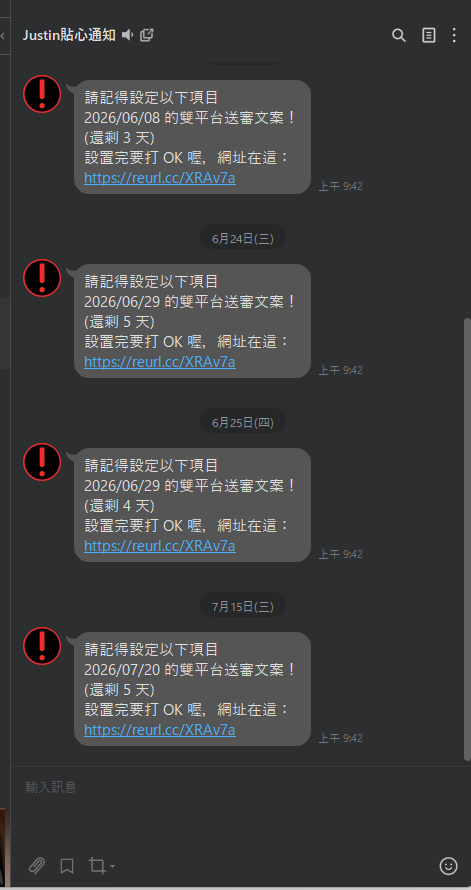
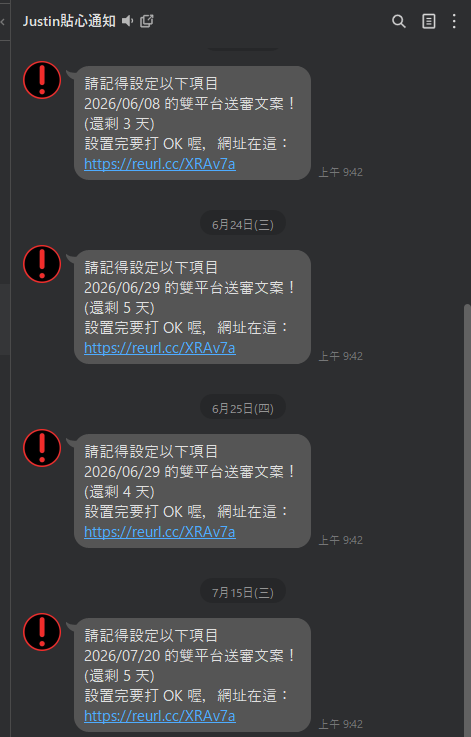
修正巢狀數字清單CSS陷阱、補充後臺設定營運活動公告的活動圖檢查要點、雙平台文案寫法標題調整，並優化其他參考資源版面

diff --git a/docs/stylesheets/extra.css b/docs/stylesheets/extra.css
@@ -53,7 +53,8 @@
 }
 
 /* 數字清單改為藍底白字圓框 */
-.md-typeset ol {
+.md-typeset ol,
+.md-typeset ol ol {
   list-style: none;
   counter-reset: step;
   padding-left: 0;

diff --git a/docs/營運活動基本設定.md b/docs/營運活動基本設定.md
@@ -15,7 +15,7 @@
 
 部分活動需要提前先設定官網文章給數學設定（舉例：魚王積分榜），這不算特例，是既定事項之一
 
-⚠ **特例狀態**：圖片未完成、臨時插件，可先設定文字版
+<mark>⚠ **特例狀態：圖片未完成、臨時插件，可先設定文字版**</mark>
 
 <img src="../images/營運活動設定/01.png" alt="營運文件總覽排期示意圖" style="max-width:1000px;width:100%;">
 
@@ -28,7 +28,7 @@
 
 <img src="../images/營運活動設定/02.png" alt="廣告素材類型示意圖" style="max-width:1000px;width:100%;">
 
-⚠ 後台「官網設定－文章管理－AI自動化用」這個區塊先無視，這是之後操作到自動發布時才會用到的區塊，見[自動發布教學](/sop-docs/營運_自動發布指南.html)
+<mark>⚠ **後台「官網設定－文章管理－AI自動化用」這個區塊先無視，這是之後操作到自動發布時才會用到的區塊，見[自動發布教學](/sop-docs/營運_自動發布指南.html)**</mark>
 
 ## 後台設定步驟
 
@@ -52,19 +52,44 @@
 
     <img src="../images/營運活動設定/07.png" alt="營運文件表格區塊示意圖" style="max-width:1000px;width:100%;">
 
-3. 設定過程中，回到[包你發更新計畫表]({{ links.update_plan_sheet }})的「類型-活動」區塊，比對活動的起迄時間是否與文件相同
+3. <mark>⚠ **設定過程中，回到[包你發更新計畫表]({{ links.update_plan_sheet }})的「類型-活動」區塊，比對活動的起迄時間是否與文件相同**</mark>
 
     <img src="../images/營運活動設定/04.png" alt="包你發更新計畫表活動起迄時間比對示意圖" style="max-width:1000px;width:100%;">
 
-    <mark>⚠ **如果不一樣：跟 MINI 或書含確定活動日期，並修正文件**</mark>
+    <mark>⚠ **如果文件日期與大表不一樣：**</mark>
 
-    <mark>⚠ **確認活動美術圖是否正確，若正確則同步到 LINE「企劃行銷同步」群組，告知行銷文件有改動**</mark>
+    1. 跟 MINI 或書含確定活動日期，並修正文件後同步到 LINE「企劃行銷同步」群組，告知行銷文件有改動
+    2. 確認活動美術圖是否正確
+        - 正確：不須同步
+        - 錯誤：請行銷美術修正
+    3. 在[營運活動進度 SLACK 群]({{ links.ops_progress_slack }})，確認數值是否已設定活動/QA 是否測試完畢
+        - 未設定：不須通知
+        - 已設定：同步給數學跟 QA 文件有修正
 
-    活動圖片在 Fileserver：`I:\行銷部\02_行銷美術\包你發娛樂城\02_APP廣告素材`，在公司以外要連 VPN 才能查看，見[VPN 教學]({{ links.vpn_tutorial_folder }})
+    <img src="../images/營運活動設定/測試群.png" alt="營運活動進度SLACK群示意圖" style="max-width:600px;width:100%;">
+
+    <mark>⚠ **活動圖片在 Fileserver：`I:\行銷部\02_行銷美術\包你發娛樂城\02_APP廣告素材`，在公司以外要連 VPN 才能查看，見[VPN 教學]({{ links.vpn_tutorial_folder }})**</mark>
 
 4. 完成設定後，把用到的圖片放入 Fileserver 對應資料夾底下的「00_已po」
 
     <img src="../images/營運活動設定/08.png" alt="Fileserver 已po資料夾示意圖" style="max-width:1000px;width:100%;">
+
+## 活動圖檢查要點
+
+- 主副標錯字
+- 活動日期
+- 遊戲獎勵
+- 主題皮
+- [刮卡符合當季上架]({{ links.scratch_card_season_sheet }})及頭彩金額正確性
+- 抽獎券下方的注意事項
+
+<mark>⚠ **另若圖檔的檔名，活動類型或日期有命名錯誤，可同步給威威（行美窗口）**</mark>
+
+<div style="display:flex; gap:12px; flex-wrap:wrap;">
+<img src="../images/營運活動設定/活動圖範例1.jpg" alt="活動圖範例1" style="max-width:32%;width:100%;">
+<img src="../images/營運活動設定/活動圖範例2.jpg" alt="活動圖範例2" style="max-width:32%;width:100%;">
+<img src="../images/營運活動設定/活動圖範例3.jpg" alt="活動圖範例3" style="max-width:32%;width:100%;">
+</div>
 
 ## QA 測試
 

diff --git a/docs/營運文案寫法.md b/docs/營運文案寫法.md
@@ -7,13 +7,13 @@
 
 怎麼寫營運相關的文案，包含雙平台送審用的文案，以及營運活動本身的文案寫法。
 
-## 雙平台文案寫法（IOS/安卓送審用）
+## 雙平台文案是甚麼
 
 送審就是 APP 交由 Android、iOS 審查。[雙平台文案表]({{ links.dual_platform_copy_sheet }})的送審日依照[包你發更新計畫表]({{ links.update_plan_sheet }})規劃，也能查到每次送審對應的遊戲及上線時間。
 
 ⚠ 這張雙平台文案表是要企劃根據包你發更新計畫表去維護的。
 
-LINE 通知是用 Google Script 程式自動排程腳本發的：檢查雙平台文案表裡每一列的送審日期，只要日期在 5 天內（含當天）而且狀態欄不是「OK」，就會發一則 LINE 廣播提醒，所以設定完文案後**記得把狀態改成「OK」**，不然每天都會一直收到提醒。
+LINE 通知是用 [Google Script 程式](https://script.google.com/u/0/home/projects/1QCEg8_mUORBIjYAV8A43DYbcghZr-prBH61Fot49viPvhqp8J-gJRZ5z/edit)自動排程腳本發的：檢查雙平台文案表裡每一列的送審日期，只要日期在 5 天內（含當天）而且狀態欄不是「OK」，就會發一則 LINE 廣播提醒，所以設定完文案後**記得把狀態改成「OK」**，不然每天都會一直收到提醒。
 
 ⚠ 要收到這個通知，要先加入 [LINE 帳號](https://line.me/R/ti/p/@936hkopb)。
 
@@ -25,7 +25,7 @@ LINE 通知是用 Google Script 程式自動排程腳本發的：檢查雙平台
 
 <mark>⚠ **如果文案寫完要修改，但已經過了送審時間，可以找前端紅茶，詢問是否能調整**</mark>
 
-## 怎麼挑要寫的遊戲
+## 雙平台-怎麼挑要寫的遊戲
 
 要挑**距離維護日最近**的遊戲來寫。舉例：假設這 4/28 一包送審有三款遊戲：
 
@@ -37,7 +37,7 @@ LINE 通知是用 Google Script 程式自動排程腳本發的：檢查雙平台
 
 ⚠ 假設這次送審沒有任何遊戲，就可以寫當下現在最新的遊戲。
 
-## 遊戲雙平台寫法
+## 雙平台-文案寫法
 
 可以參考過往的範例，主要是**遊戲名稱＋遊戲特色**。
 
@@ -47,4 +47,13 @@ LINE 通知是用 Google Script 程式自動排程腳本發的：檢查雙平台
 
 ## 營運活動文案寫法
 
-🟡 待補充
+可以參考[過往的寫法]({{ links.campaign_copy_examples_sheet }})。
+
+主副標有些文字限制的建議：
+
+- 主標 8 字以內
+- 副標 15 字以內
+
+<img src="../images/營運文案寫法/主副標.png" alt="主副標示意圖" style="max-width:600px;width:100%;">
+
+<mark>⚠ **注意事項：獎勵、日期、遊戲、該活動的主題皮需正確**</mark>

diff --git a/docs/營運_索引.md b/docs/營運_索引.md
@@ -63,8 +63,12 @@
 
 不常用、但偶爾要找的相關資料，之後有類似的可以繼續往這裡加：
 
-- [活動 獎勵 機率 公布 survey]({{ links.reward_probability_survey_slides }})
-- [QA 站後台]({{ links.qa_backstage }})
-- [QA 包你發官網]({{ links.qa_website }})
-- [安裝 QA 測試版 APP 方式]({{ links.qa_app_install_folder }})
-- [VPN 教學]({{ links.vpn_tutorial_folder }})
+<div style="column-count:3; column-gap:24px;">
+<ul style="margin:0;">
+<li><a href="{{ links.reward_probability_survey_slides }}">活動 獎勵 機率 公布 survey</a></li>
+<li><a href="{{ links.qa_backstage }}">QA 站後台</a></li>
+<li><a href="{{ links.qa_website }}">QA 包你發官網</a></li>
+<li><a href="{{ links.qa_app_install_folder }}">安裝 QA 測試版 APP 方式</a></li>
+<li><a href="{{ links.vpn_tutorial_folder }}">VPN 教學</a></li>
+</ul>
+</div>

diff --git a/docs/連結總表.md b/docs/連結總表.md
@@ -27,6 +27,8 @@
 - [ ] `ticket_reward_content` — 抽獎／獎項內容試算表
 - [ ] `ticket_threshold_data` — 抽獎券分取得門檻的數據
 - [ ] `dual_platform_copy_sheet` — 雙平台文案（IOS/安卓送審用）
+- [ ] `campaign_copy_examples_sheet` — 營運活動文案過往寫法範例
+- [ ] `scratch_card_season_sheet` — 刮卡當季上架項目
 
 ## 簡報
 
@@ -58,3 +60,4 @@
 
 - [ ] `ops_group_slack` — 包你發-營運組
 - [ ] `ops_maintenance_slack` — 包你發-維護or更新
+- [ ] `ops_progress_slack` — 營運活動進度 Slack 群
